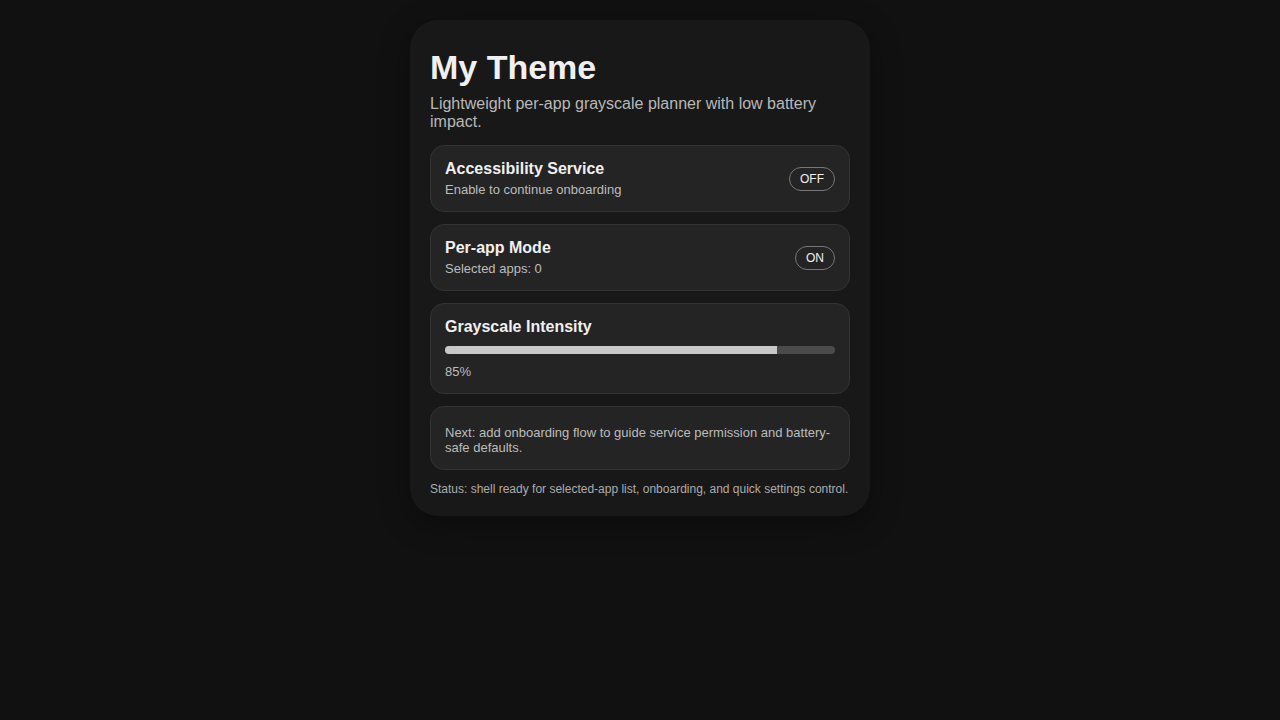
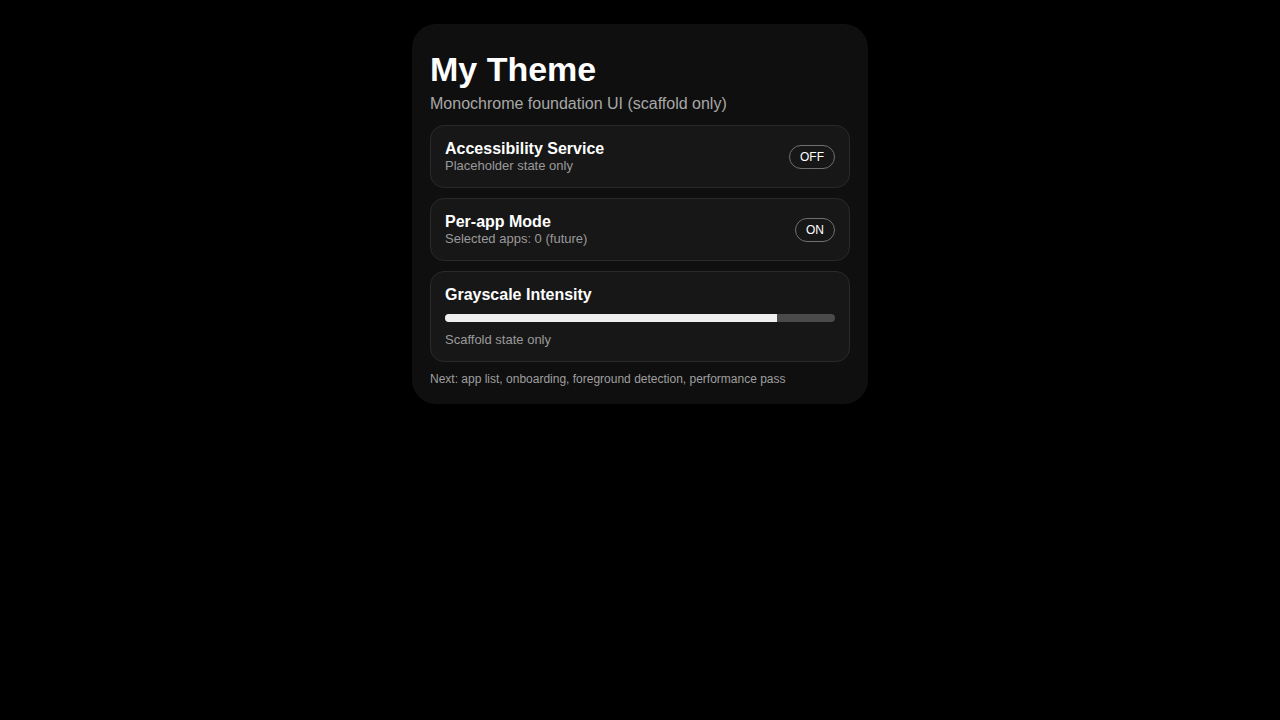
docs: clarify scaffold status and apply monochrome app theme
Agent-Logs-Url: https://github.com/mkmk749278/My-Theme/sessions/f739d861-28c0-4173-9170-175a3437ff28

Changed region(s): [[0.3125, 0.0611, 0.6875, 0.7028], [0.625, 0.3056, 0.6562, 0.3667], [0.625, 0.2139, 0.6562, 0.275]]

diff --git a/app/src/main/java/com/mkmk/mytheme/ui/Theme.kt b/app/src/main/java/com/mkmk/mytheme/ui/Theme.kt
@@ -1,18 +1,54 @@
 package com.mkmk.mytheme.ui
 
 import androidx.compose.foundation.isSystemInDarkTheme
+import androidx.compose.material3.ColorScheme
 import androidx.compose.material3.MaterialTheme
 import androidx.compose.material3.darkColorScheme
 import androidx.compose.material3.lightColorScheme
 import androidx.compose.runtime.Composable
+import androidx.compose.ui.graphics.Color
 
-private val DarkScheme = darkColorScheme()
-private val LightScheme = lightColorScheme()
+private val MonoBlack = Color(0xFF000000)
+private val MonoNearBlack = Color(0xFF101010)
+private val MonoDarkSurface = Color(0xFF1A1A1A)
+private val MonoGray = Color(0xFF8A8A8A)
+private val MonoLightGray = Color(0xFFE0E0E0)
+private val MonoWhite = Color(0xFFFFFFFF)
+
+private val MonochromeDarkScheme: ColorScheme = darkColorScheme(
+    primary = MonoWhite,
+    onPrimary = MonoBlack,
+    secondary = MonoLightGray,
+    onSecondary = MonoBlack,
+    tertiary = MonoLightGray,
+    background = MonoBlack,
+    onBackground = MonoWhite,
+    surface = MonoDarkSurface,
+    onSurface = MonoWhite,
+    surfaceVariant = MonoNearBlack,
+    onSurfaceVariant = MonoGray
+)
+
+private val MonochromeLightScheme: ColorScheme = lightColorScheme(
+    primary = MonoBlack,
+    onPrimary = MonoWhite,
+    secondary = MonoNearBlack,
+    onSecondary = MonoWhite,
+    tertiary = MonoNearBlack,
+    background = MonoWhite,
+    onBackground = MonoBlack,
+    surface = Color(0xFFF2F2F2),
+    onSurface = MonoBlack,
+    surfaceVariant = Color(0xFFE6E6E6),
+    onSurfaceVariant = Color(0xFF5E5E5E)
+)
 
 @Composable
 fun AppTheme(content: @Composable () -> Unit) {
-    MaterialTheme(
-        colorScheme = if (isSystemInDarkTheme()) DarkScheme else LightScheme,
-        content = content
-    )
+    val colorScheme = if (isSystemInDarkTheme()) {
+        MonochromeDarkScheme
+    } else {
+        MonochromeLightScheme
+    }
+    MaterialTheme(colorScheme = colorScheme, content = content)
 }

diff --git a/README.md b/README.md
@@ -17,10 +17,13 @@ This repository now contains:
 - GitHub Actions workflow that builds a debug APK and uploads it as an artifact
 - Product/engineering roadmap in [`docs/ROADMAP.md`](docs/ROADMAP.md)
 
+## What is intentionally not implemented yet
+- Per-app grayscale behavior across other apps is **not implemented yet** in runtime.
+- Accessibility service state in the app shell is **placeholder UI** only.
+- Grayscale intensity control is currently **scaffold state only** and does not apply filters yet.
+
 ## Initial app shell preview
 ![App shell preview](docs/images/app-shell.png)
-
-Alternative hosted preview: https://github.com/user-attachments/assets/feafdb0f-48e5-4f79-8c97-86c5391960c2
 
 ## Android constraints (important)
 Android does not provide a simple public API for forcing true per-app grayscale rendering in arbitrary third-party apps.
@@ -32,3 +35,9 @@ See roadmap for feasibility details.
 2. Open the **Actions** tab.
 3. Run or inspect **Android CI - Build Debug APK**.
 4. Download the `app-debug-apk` artifact from the workflow run.
+
+## Next steps
+- Implement selected app list and persistence.
+- Build permission/onboarding flow for required services.
+- Add accessibility-based foreground app detection.
+- Optimize battery, memory, and rendering behavior.
